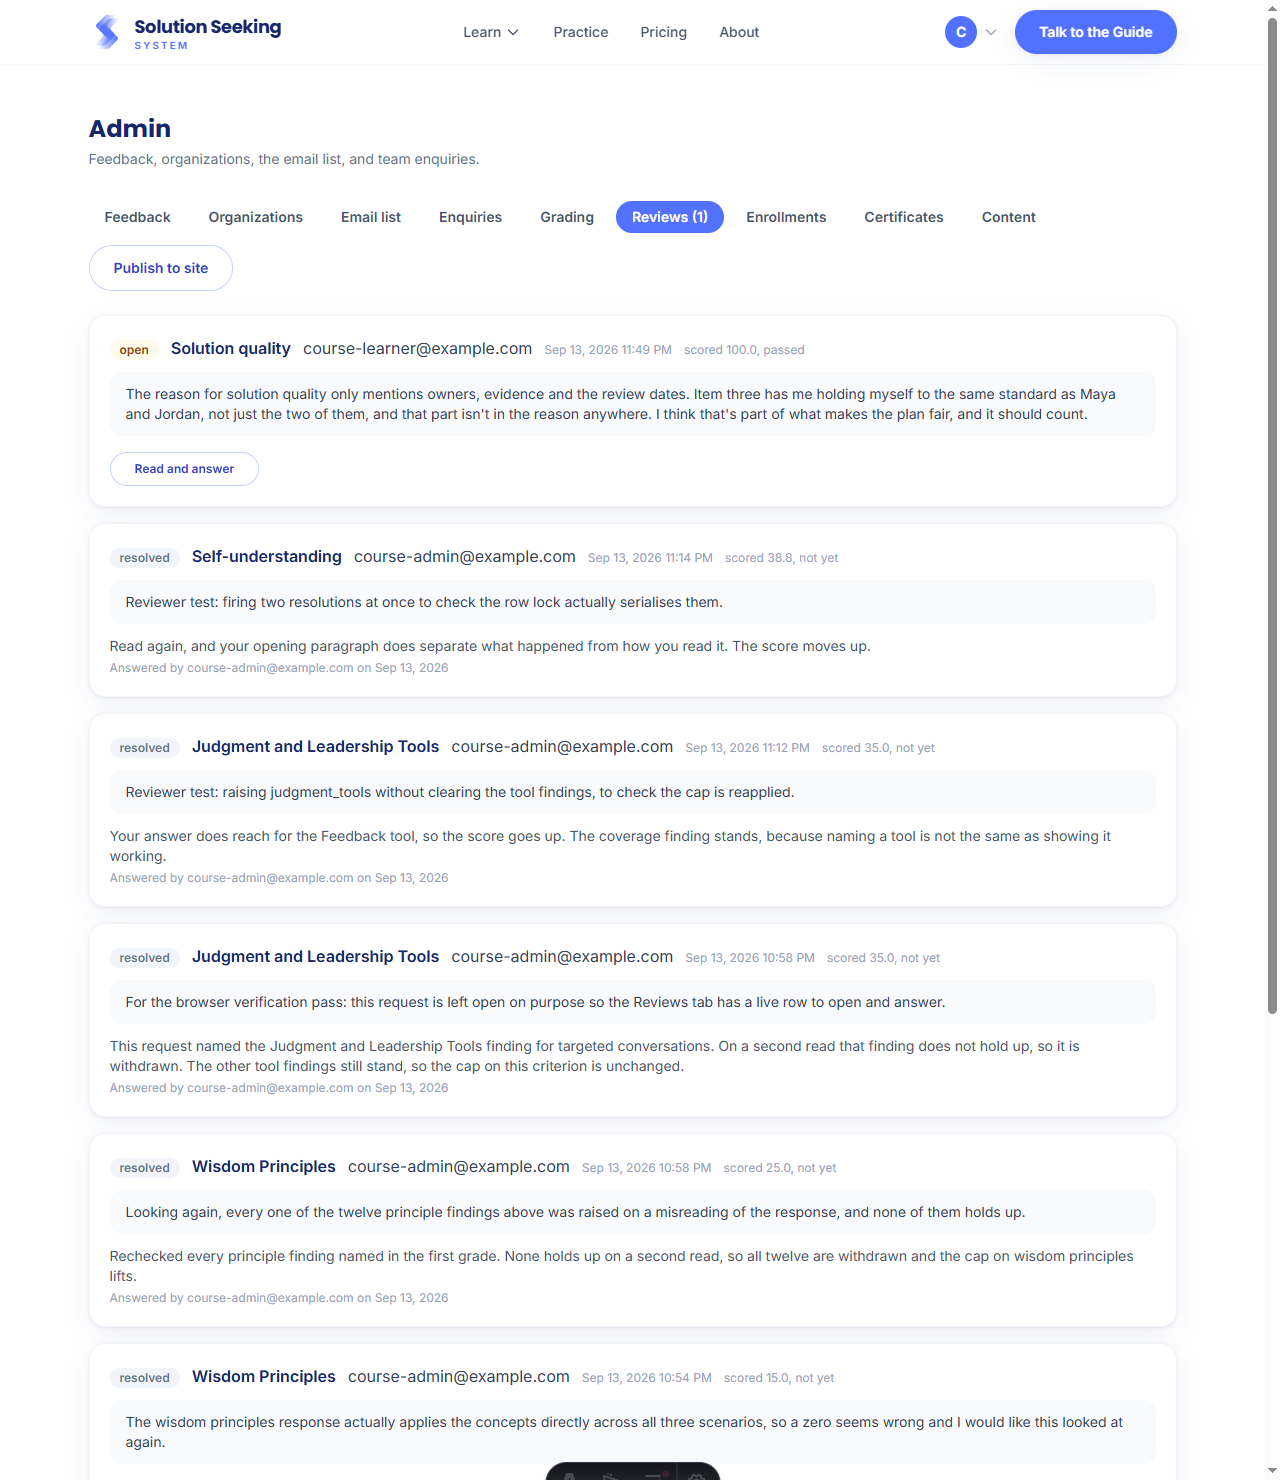
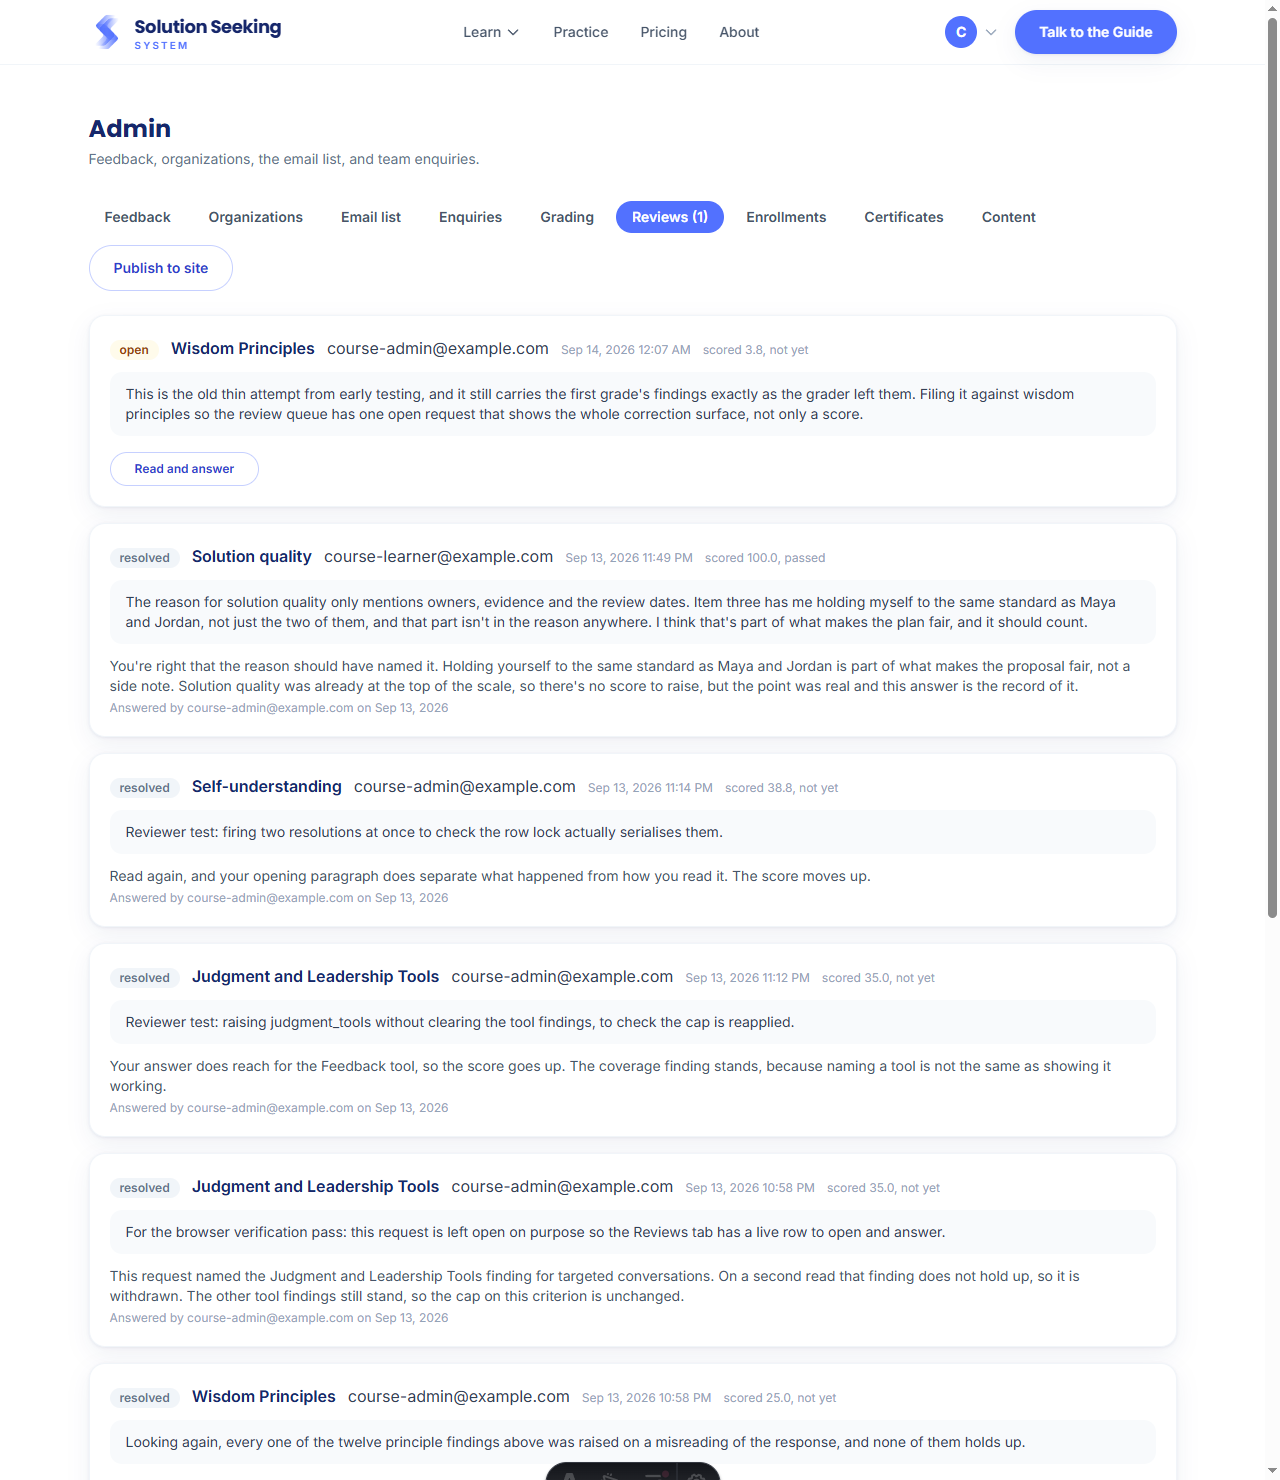
Recapture the admin screenshots against a grade that still has findings
The two admin screenshots showed a resolution as a retyped number,
because the fixture they used had already had every finding withdrawn.
Recaptured both against course-admin@example.com's other attempt,
f72134ae, generation 1 straight from the grader: filed a review
against it through the learner-facing assessment route, the same way
an enrolled learner would, naming that attempt id. admin-review-answering-1280.png
now shows the full correction surface: twelve principle findings, four
tool findings and four misconceptions, all still outstanding. Left
that review open rather than resolving it, so the queue's resting
state in admin-reviews-queue-1280.png is the truer one, one open
request above its history. Recaptured admin-reviews-queue-1280.png too
so the pair stays coherent. Both captions say plainly that the
requester here is the admin's own account, since both local accounts
are enrolled. The learner-side screenshots are untouched.

Also added the line deployment.md was missing: the assessment page
stops offering the review form once any row exists for an attempt,
open or resolved, so a learner gets one request per attempt in
practice, while create_course_review itself only refuses a second
open one, because the operator side needs to stay able to record a
further corrected grade through a fresh review and resolution.

diff --git a/docs/features/course/README.md b/docs/features/course/README.md
@@ -64,8 +64,8 @@ rather than carrying a price.
 | ![Verify page, not active, phone](verify-not-active-390.png) | **`verify-not-active-390.png`**: the same page at 390px for a token that resolves to nothing. A revoked certificate, a link its owner turned off, and a token that was never real all land on this exact page, so no response tells a visitor which one they hit. |
 | ![Review request form](assessment-review-form-1280.png) | **`assessment-review-form-1280.png`**: the request form open under the result, Solution quality chosen and a genuine reason typed, captured before sending. This is the only state that shows the trigger: once a review exists for an attempt, even a resolved one, this same panel shows that record instead of the form. |
 | ![Review request, open, phone](assessment-review-open-390.png) | **`assessment-review-open-390.png`**: the learner's own view of that same request, still open, at 390 wide. The reason sits in its own shaded box, and the result above it stays exactly as it was while an answer is pending. |
-| ![Admin reviews queue](admin-reviews-queue-1280.png) | **`admin-reviews-queue-1280.png`**: `/admin` → Reviews with the new request open at the top and earlier resolved requests, each carrying real operator text, below it. Open requests sort first and each state then sorts newest first, so nothing waiting for an answer sits under one that already has one. |
-| ![Admin answering a review](admin-review-answering-1280.png) | **`admin-review-answering-1280.png`**: the same request opened for answering: every criterion the grader scored, with its reason and quoted evidence, a correction input beside each, and the resolution and certificate controls. No findings checklist appears here, because this grade already has every coverage finding applied and no misconceptions, so there is nothing left to withdraw. |
+| ![Admin reviews queue](admin-reviews-queue-1280.png) | **`admin-reviews-queue-1280.png`**: `/admin` → Reviews with a new open request at the top and the earlier resolved requests, each carrying real operator text, below it. The open one is filed against `course-admin@example.com`'s own older, deliberately thin practice attempt; both local accounts are enrolled, so here the requester is the admin acting as a learner would, not a real dispute. Open requests sort first and each state then sorts newest first, so nothing waiting for an answer sits under one that already has one. |
+| ![Admin answering a review](admin-review-answering-1280.png) | **`admin-review-answering-1280.png`**: the same request opened for answering, against a grade straight from the grader that nobody has corrected yet, so every control is on screen at once: all six criteria with their reasons and quoted evidence, a correction input beside each, and the full findings checklist, twelve principle findings, four tool findings and four misconceptions, every one of them still outstanding. Left open and unanswered on purpose: an open queue with its history underneath is the truer resting state for whoever opens this tab next. |
 | ![Review answered](assessment-review-answered-1280.png) | **`assessment-review-answered-1280.png`**: the learner's panel once the request above is resolved, showing the operator's answer. The score never moved, since solution quality was already at the top of the scale; the answer itself, not a changed number, is the whole outcome of asking. |
 
 _Captured with a headless Chromium session against the local Supabase stack. The dark pill at

diff --git a/docs/deployment.md b/docs/deployment.md
@@ -1079,6 +1079,11 @@ second resolution on a review that already has one, and once a row is answered i
 resolution, no more controls. Putting a wrongly answered review right means changing the row in
 the database directly, by hand.
 
+A learner gets one review per attempt in practice: the page stops offering the form the moment
+any row exists for that attempt, open or resolved, and shows that row instead. The route
+underneath, `create_course_review`, only refuses a second **open** request, because the operator
+side needs to stay able to record a further corrected grade through a fresh review and resolution.
+
 **The review email.** Filing a request emails the learner "We received your review request" with
 a link to the assessment page, sent right after the row is created. It is sent once per review:
 the call that sets `email_sent_at` on the review row, where it is null, is the only one that
